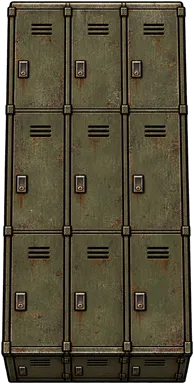
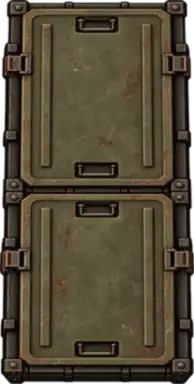
潜入: 倒れたロッカーに見える設備を俯瞰の軍用収納箱へ変更

diff --git a/index.html b/index.html
@@ -864,7 +864,7 @@ const cv=document.getElementById('c'),gm=gameCanvasContext(cv,{alpha:false}),oc=
 const canvasCreationDiagnostics={requested:MOBILE_READBACK_CANVAS,accepted:null};
 try{const attributes=gm.getContextAttributes?.();if(attributes&&typeof attributes.willReadFrequently==='boolean')canvasCreationDiagnostics.accepted=attributes.willReadFrequently;}catch(_){}
 window.tankCanvasDiagnostics=canvasCreationDiagnostics;
-const GAME_VERSION='2026.10.21.0903',FILE_CREATED_AT='2026/10/21 09:03',DRILL_ACTIVE=5,DRILL_RECHARGE=6,DIG_PREP_DURATION=.5;
+const GAME_VERSION='2026.10.21.0911',FILE_CREATED_AT='2026/10/21 09:11',DRILL_ACTIVE=5,DRILL_RECHARGE=6,DIG_PREP_DURATION=.5;
 // 表示・保存用のm換算。移動・評価は内部座標のまま扱う。
 const distanceMeters=distance=>Math.round(Math.max(0,distance)/10);
 let audioCtx=null;
@@ -8017,7 +8017,7 @@ function reportGameError(error){
 <script src="js/maze-walls.js?v=2026.10.14.1653"></script>
 <script src="js/canyon.js?v=2026.10.14.1836"></script>
 <script src="js/vegetation.js?v=2026.10.14.1653"></script>
-<script src="js/infiltration-world.js?v=2026.10.21.0903"></script>
+<script src="js/infiltration-world.js?v=2026.10.21.0911"></script>
 <script>
 (function(){
 // iPhone Chrome/Safari: synthetic KeyboardEvent に依存せず、ゲーム内部の入力状態を直接更新する。

diff --git a/js/infiltration-world.js b/js/infiltration-world.js
@@ -2760,7 +2760,7 @@ function indoorPropImage(kind){
   if(!kind)return null;
   if(!Object.prototype.hasOwnProperty.call(indoorPropImages,kind)){
     const image=new Image();image.decoding='async';
-    image.src='assets/indoor/'+kind+'.webp'+(kind==='automatic_door_cyan'||kind==='automatic_door_horizontal_cyan'?'?v=20261021-continuous':INDOOR_PROP_ASPECT[kind]?'?v=20261020-r2':'');indoorPropImages[kind]=image;
+    image.src='assets/indoor/'+kind+'.webp'+(kind==='personal_lockers'?'?v=20261021-storage':kind==='automatic_door_cyan'||kind==='automatic_door_horizontal_cyan'?'?v=20261021-continuous':INDOOR_PROP_ASPECT[kind]?'?v=20261020-r2':'');indoorPropImages[kind]=image;
   }
   const image=indoorPropImages[kind];return assetOK(image)?image:null;
 }

diff --git a/assets/indoor/personal_lockers.prompt.md b/assets/indoor/personal_lockers.prompt.md
@@ -1,0 +1,3 @@
+# Low military storage chest replacement — 2026-10-21
+
+Generated with built-in imagegen using the main-branch personal_lockers.webp as a material and palette reference. Replaces the front-facing locker bank with two low military equipment storage chests seen directly from above. Broad solid top lids, raised perimeter rims, sparse ribs, recessed carrying handles, subtle edge hinges and latches; weathered olive steel with restrained rust. No grid of upright doors, front-facing vents, tall facade, text, ground or broad shadow. Transparent background; long narrow 194:384 footprint. Export as 194x384 transparent WebP, retaining the existing placement, orientation, size and collision behavior. Original artwork remains in Git history and the existing legacy directory.
